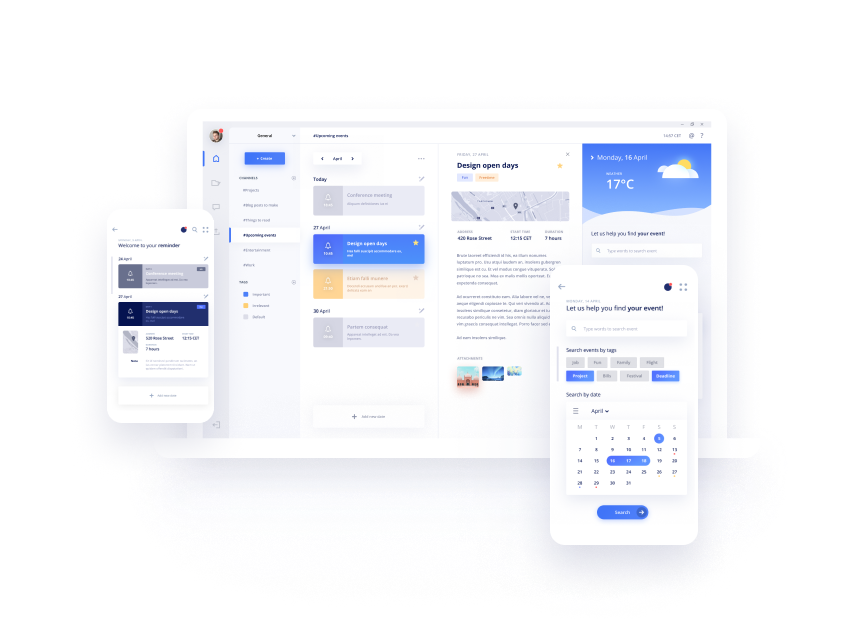
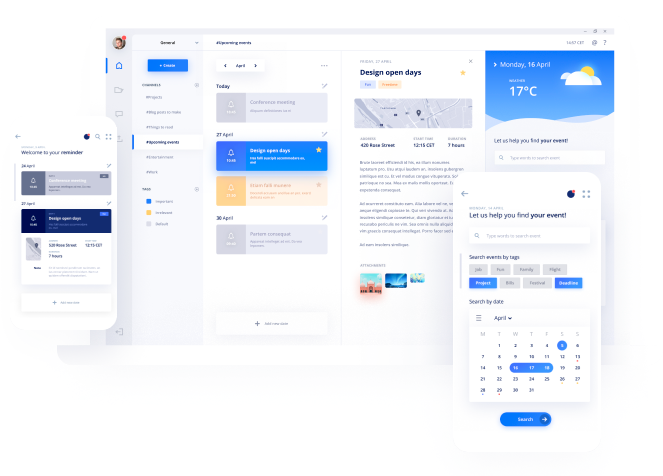
-

diff --git a/index.html b/index.html
@@ -96,7 +96,7 @@
   <div class="block-plan">
     <div class="container">
       <div class="row space-plan">
-        <div class="col-lg-5">
+        <div class="col-lg-4">
           <div class="text-plan">
             <div>
               <p>DESKTOP AND MOBILE APP</p>
@@ -123,7 +123,7 @@
           </div>
         </div>
 
-        <div class="col-lg-7">
+        <div class="col-lg-6">
           <div class="img-plan">
             <img src="./source/illustration.png" alt="img-prev-plan">
           </div>
